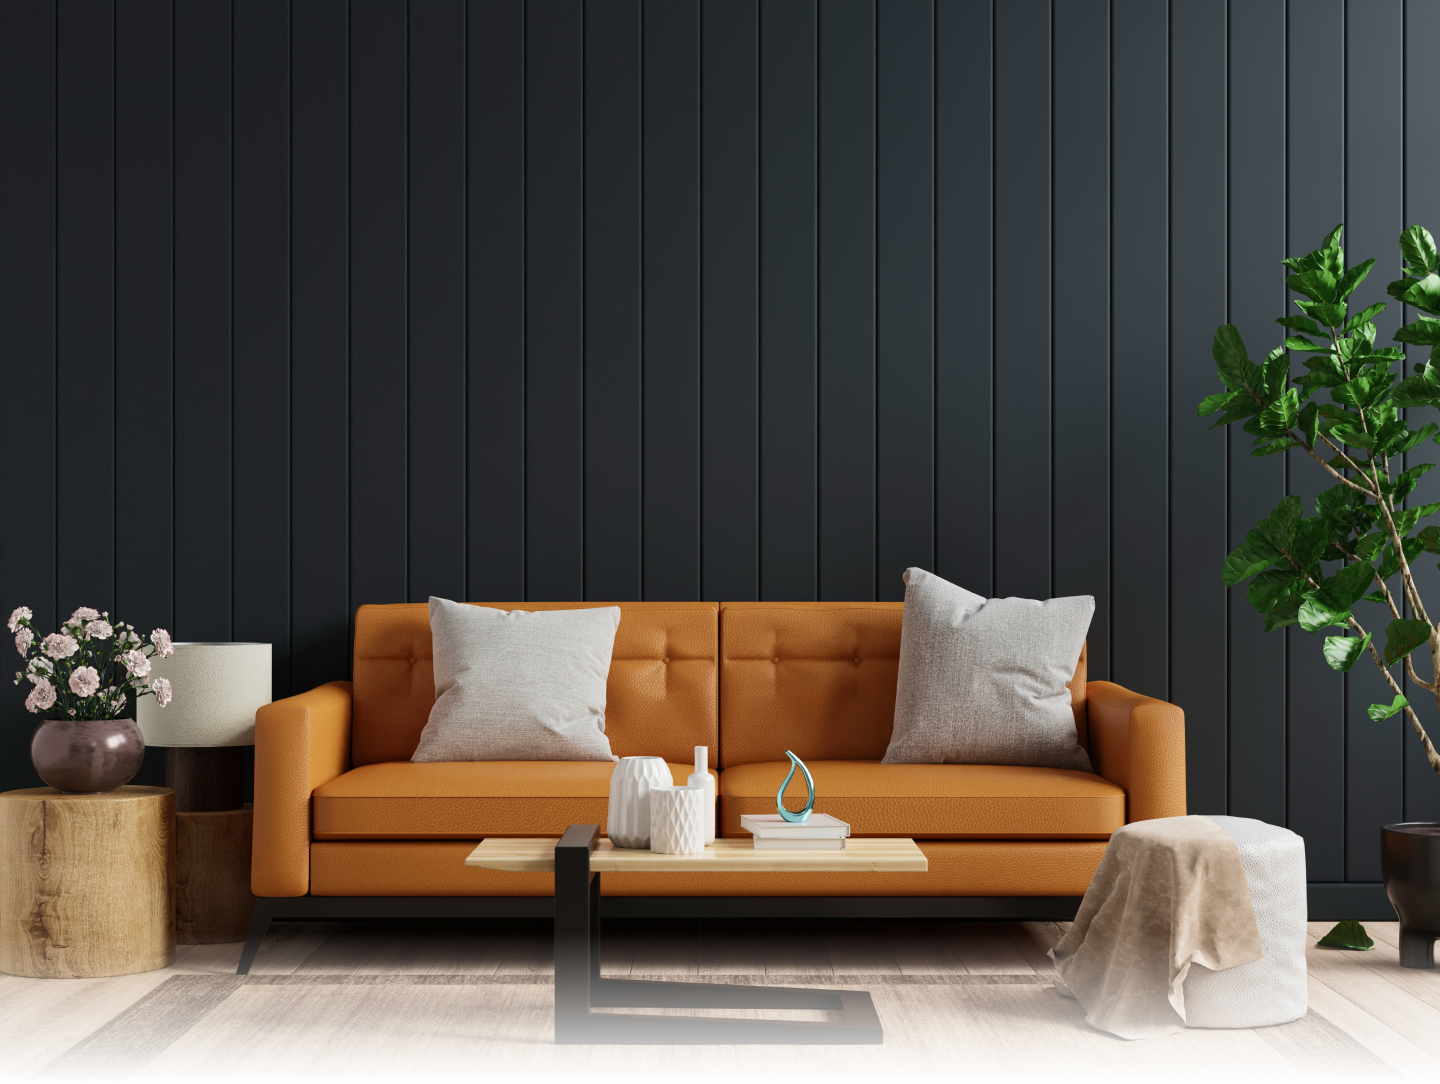
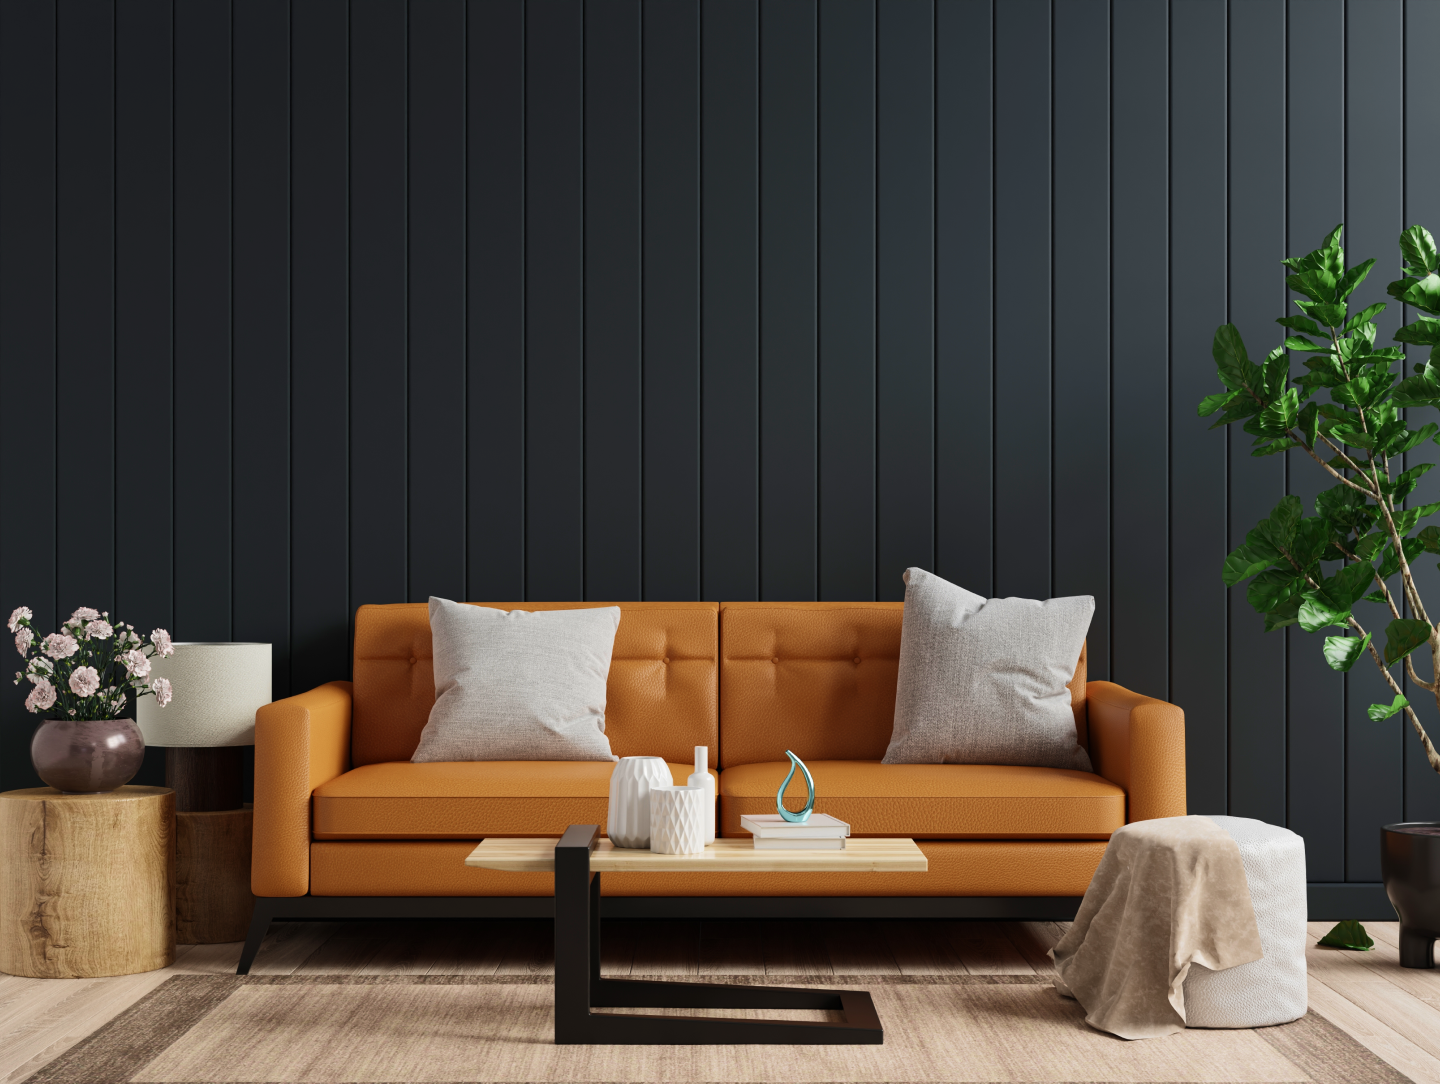
added the hero section

Changed region(s): [[0.0, 0.8524, 1.0, 1.0]]

diff --git a/style.css b/style.css
@@ -1,10 +1,9 @@
 :root {
-  --clr--accent--400: #E58411;
-  --clr--accent--200: #F6B76F;
-  --clr--primary--400: #0D1B39;
-  --clr--text--400: #1E1E1E;
-  --clr--text--200: #8D8D8D;
-  font-family: "DM Sans", sans-serif;
+  --clr--accent--400: #e58411;
+  --clr--accent--200: #f6b76f;
+  --clr--primary--400: #0d1b39;
+  --clr--text--400: #1e1e1e;
+  --clr--text--200: #8d8d8d;
   font-size: 16px;
   color: var(--clr--text--400);
 }
@@ -14,9 +13,11 @@
   margin: 0;
   padding: 0;
   box-sizing: border-box;
+  font-family: "Poppins", sans-serif;
 }
 
-img, svg {
+img,
+svg {
   max-width: 100%;
   display: block;
 }
@@ -31,7 +32,16 @@ ul {
   list-style: none;
 }
 
+i {
+  cursor: pointer;
+}
+
 /* UTILITY CLASSES */
+.container {
+  max-width: 1440px;
+  margin: 0 auto;
+}
+
 .tx-xl {
   font-size: 80px;
   font-weight: 700;
@@ -45,22 +55,116 @@ ul {
 
 .tx-xm {
   font-size: 24px;
-  font-weight: bold;
+  font-weight: 300;
   color: white;
 }
 
 .tx-m {
   font-size: 22px;
-  font-weight: 600;
+  font-weight: 300;
 }
 
 .tx-xs {
   font-size: 18px;
-  font-weight: 600;
+  font-weight: 300;
 }
 
 .tx-s {
   font-size: 14px;
+  font-weight: 300;
+  color: #e58411;
+}
+
+.logo {
+  font-size: 28px;
   font-weight: 600;
-  color: #E58411;
+  color: white;
+}
+
+.icon__badge {
+  background-color: var(--clr--accent--400);
+  border-radius: 50%;
+  display: flex;
+  justify-content: center;
+  align-items: center;
+  position: absolute;
+  top: -10px;
+  right: -10px;
+  font-size: 16px;
+  width: 28px;
+  height: 28px;
+}
+
+/* HERO */
+.hero {
+  background-image: url(./assets/hero-image.png);
+  mask-image: linear-gradient(to top, rgba(0, 0, 0, 0) 0%, rgb(0, 0, 0) 20%);
+  background-repeat: no-repeat;
+  background-position: center;
+  background-size: cover;
+  padding-top: 40px;
+  padding-bottom: 600px;
+}
+
+.hero__nav {
+  color: white;
+  display: flex;
+  justify-content: space-between;
+  align-items: center;
+  margin-bottom: 120px;
+}
+
+.hero__links {
+  display: flex;
+  gap: 64px;
+}
+
+.hero__links a {
+  font-weight: 400;
+}
+
+.hero__cart {
+  font-size: 44px;
+  position: relative;
+}
+
+.hero__content {
+  display: flex;
+  flex-direction: column;
+  align-items: center;
+  text-align: center;
+  gap: 40px;
+}
+
+.hero__content p {
+  width: 44%;
+}
+
+.hero__content__search {
+  padding: 8px 8px 8px 20px;
+  border-radius: 40px;
+  display: flex;
+  justify-content: space-between;
+  align-items: center;
+  /* From https://css.glass */
+  background: rgba(255, 255, 255, 0.2);
+  box-shadow: 0 4px 30px rgba(0, 0, 0, 0.1);
+  backdrop-filter: blur(4px);
+  border: 1px solid rgba(255, 255, 255, 0.5);
+}
+
+.hero__content__search input {
+  border: none;
+  background-color: transparent;
+  outline: none;
+  color: white;
+}
+
+.hero__content__search__icon {
+  padding: 12px;
+  background-color: var(--clr--accent--400);
+  color: white;
+  border-radius: 24px;
+  font-size: 24px;
+  font-weight: bold;
 }

diff --git a/index.html b/index.html
@@ -9,13 +9,53 @@
       href="https://fonts.googleapis.com/css2?family=Poppins:ital,wght@0,100;0,200;0,300;0,400;0,500;0,600;0,700;0,800;0,900;1,100;1,200;1,300;1,400;1,500;1,600;1,700;1,800;1,900&display=swap"
       rel="stylesheet"
     />
-    <link href='https://unpkg.com/boxicons@2.1.4/css/boxicons.min.css' rel='stylesheet'>
-    <link rel="stylesheet" href="./style.css">
+    <link
+      href="https://unpkg.com/boxicons@2.1.4/css/boxicons.min.css"
+      rel="stylesheet"
+    />
+    <link rel="stylesheet" href="./style.css" />
     <title>🛋 Panto</title>
   </head>
   <body>
-    <header></header>
-    <main></main>
+    <main>
+      <!-- HERO SECTION -->
+      <section class="hero">
+        <div class="container">
+          <nav class="hero__nav">
+            <a href="./index.html" class="logo">
+              <p>Panto</p>
+            </a>
+
+            <ul class="hero__links tx-xs">
+              <li><a href="#">Furniture</a></li>
+              <li><a href="#">Shop</a></li>
+              <li><a href="#">About Us</a></li>
+              <li><a href="#">Contact</a></li>
+            </ul>
+
+            <i class="hero__cart bx bxs-shopping-bag">
+              <span class="icon__badge">0</span>
+            </i>
+          </nav>
+          <div class="hero__content">
+            <h1 class="tx-xl">Make Your Interior More Minimalistic & Modern</h1>
+            <p class="tx-xm">
+              Turn your room with panto into a lot more minimalist and modern
+              with ease and speed
+            </p>
+            <div class="hero__content__search">
+              <input class="tx-xs" type="text" placeholder="Search furniture" />
+              <i class="hero__content__search__icon bx bx-search"></i>
+            </div>
+          </div>
+        </div>    
+      </section>
+
+      <!-- WHY CHOOSE US SECTION -->
+      <section class="why-choose-us">
+      </section>
+
+    </main>
     <footer></footer>
   </body>
 </html>
